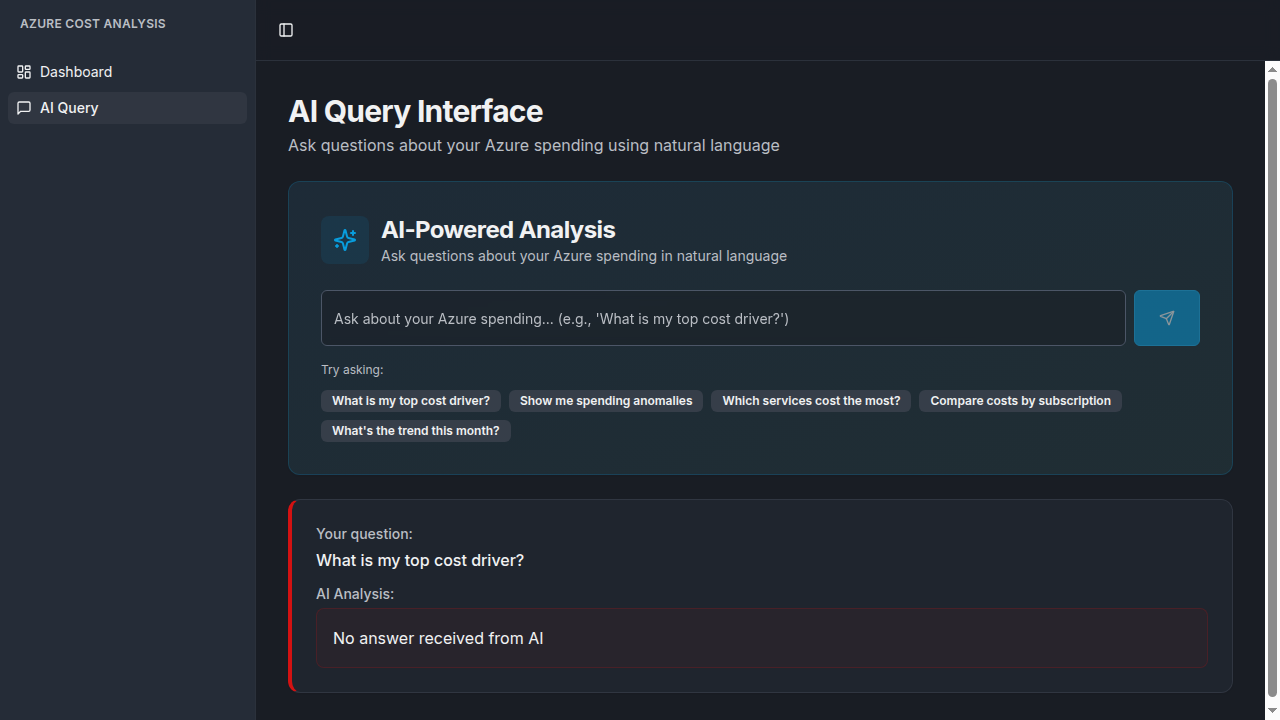
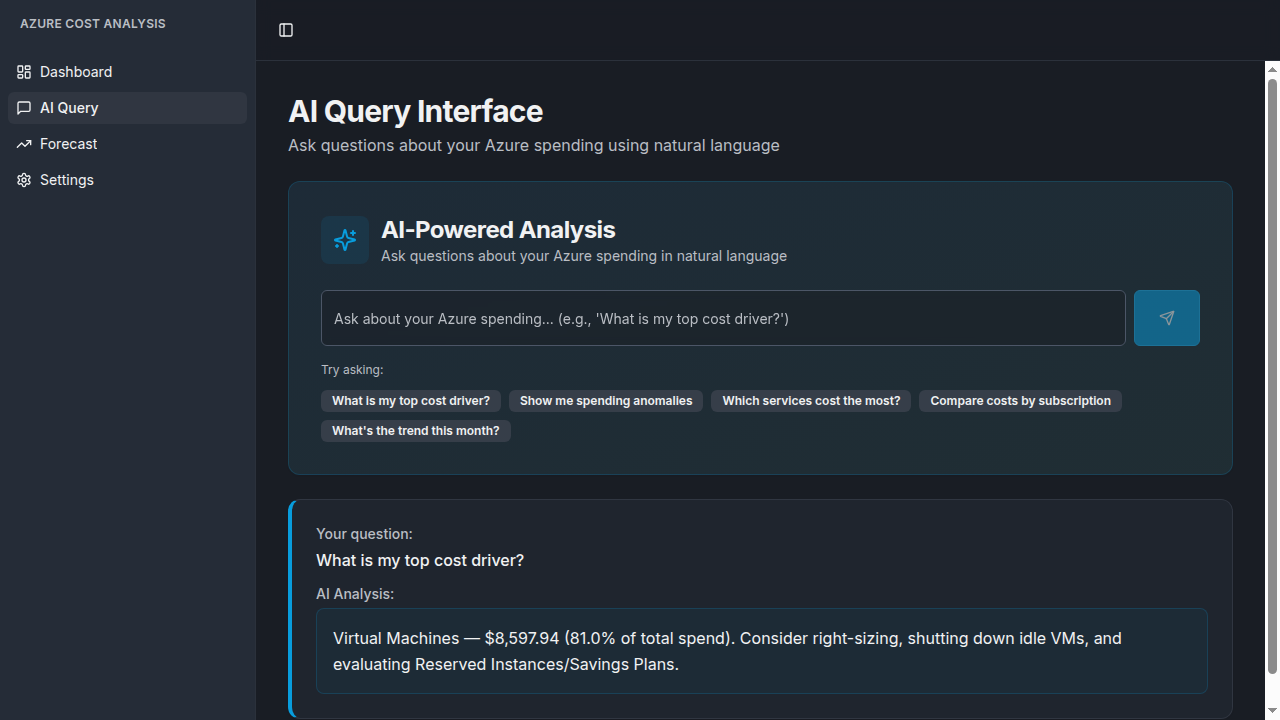
Enhance AI query system with anomaly detection and detailed cost insights
Integrate anomaly detection script and enrich AI query context with cost summaries, daily trends, detected anomalies, and subscription information to provide more comprehensive and actionable responses.

Replit-Commit-Author: Agent
Replit-Commit-Session-Id: b457d75e-b6bf-4f89-9699-de52474264a4
Replit-Commit-Checkpoint-Type: intermediate_checkpoint
Replit-Commit-Screenshot-Url: https://storage.googleapis.com/screenshot-production-us-central1/ba841c58-c035-4a96-8098-3566b8d7b107/b457d75e-b6bf-4f89-9699-de52474264a4/sQ5ZWsG

diff --git a/server/routes.ts b/server/routes.ts
@@ -127,24 +127,60 @@ export async function registerRoutes(app: Express): Promise<Server> {
       // Get cost data from server cache instead of trusting client payload
       const costData = cachedCostData || loadSampleData();
 
-      // Prepare context for AI
-      const context = `You are an AI assistant analyzing Azure cloud spending data. 
-      
-Here is the cost data summary:
+      // Get anomaly data for comprehensive analysis
+      let anomalyData: any = null;
+      try {
+        anomalyData = await runPythonScript("anomaly_detection.py", costData);
+      } catch {
+        // Continue without anomaly data if detection fails
+      }
+
+      // Prepare comprehensive context for AI
+      const context = `You are an AI assistant analyzing Azure cloud spending data. Answer questions clearly and concisely based on the data provided.
+
+COST SUMMARY:
 - Total Cost: $${costData.totalCost.toFixed(2)}
 - Average Daily Cost: $${costData.avgDailyCost.toFixed(2)}
 - Top Service: ${costData.topService.name} ($${costData.topService.cost.toFixed(2)})
 - Number of Services: ${costData.serviceCount}
 - Peak Day: ${costData.peakDay.date} ($${costData.peakDay.cost.toFixed(2)})
 
-Top 10 Services by Cost:
+TOP 10 SERVICES BY COST:
 ${costData.serviceBreakdown.slice(0, 10).map((s: any, i: number) => 
   `${i + 1}. ${s.name}: $${s.cost.toFixed(2)} (${s.percentage.toFixed(1)}%)`
 ).join('\n')}
 
-Subscriptions: ${costData.subscriptions.join(', ')}
+DAILY COST TRENDS (Last 30 days):
+${costData.dailyTrends.map((d: any) => 
+  `${d.date}: $${d.cost.toFixed(2)}`
+).join('\n')}
 
-Please answer the user's question clearly and concisely based on this data.`;
+${anomalyData?.anomalies?.length > 0 ? `DETECTED SPENDING ANOMALIES:
+${anomalyData.anomalies.map((a: any) => 
+  `- ${a.date}: $${a.cost.toFixed(2)} (${a.type}, ${a.severity} severity) - ${a.description}`
+).join('\n')}
+
+INSIGHTS:
+${anomalyData.insights.join('\n')}` : ''}
+
+SUBSCRIPTIONS: ${costData.subscriptions.join(', ')}
+
+When answering:
+- For "which services" questions: list the top services from the service breakdown
+- For "trend" questions: analyze the daily trends data
+- For "anomaly" or "unusual" questions: reference the detected anomalies
+- Provide specific numbers and percentages from the data
+- Be concise and actionable`;
+
+      // Log context length for debugging
+      console.log(`AI Query context length: ${context.length} characters`);
+      console.log(`User query: "${query}"`);
+      console.log(`Anomaly data available:`, anomalyData?.anomalies?.length || 0, 'anomalies');
+      
+      // Log first 500 chars of context for debugging
+      if (query.toLowerCase().includes('anomal')) {
+        console.log('Context preview for anomaly query:',context.substring(0, 500));
+      }
 
       // the newest OpenAI model is "gpt-5" which was released August 7, 2025. do not change this unless explicitly requested by the user
       const completion = await openai.chat.completions.create({
@@ -156,7 +192,59 @@ Please answer the user's question clearly and concisely based on this data.`;
         max_completion_tokens: 500,
       });
 
-      const answer = completion.choices[0]?.message?.content || "I couldn't generate an answer.";
+      console.log(`OpenAI completion choices:`, completion.choices?.length || 0);
+      console.log(`OpenAI response content:`, completion.choices[0]?.message?.content?.substring(0, 100) || "NONE");
+      
+      if (!completion.choices[0]?.message?.content) {
+        console.log('OpenAI response was empty - full completion:', JSON.stringify(completion, null, 2));
+      }
+
+      let answer = completion.choices[0]?.message?.content;
+      
+      // If OpenAI failed to generate an answer, provide data-driven fallback
+      if (!answer || answer.trim().length === 0) {
+        console.log('OpenAI returned empty response, using data-driven fallback');
+        console.log('Query lower:', query.toLowerCase());
+        
+        // Generate fallback answer based on query type
+        if (query.toLowerCase().includes('anomal')) {
+          console.log('Taking anomaly fallback branch');
+          if (anomalyData?.anomalies?.length > 0) {
+            answer = `I detected ${anomalyData.anomalies.length} spending anomalies:\n\n` +
+              anomalyData.anomalies.slice(0, 5).map((a: any) => 
+                `• ${a.date}: $${a.cost.toFixed(2)} - ${a.description} (${a.severity} severity)`
+              ).join('\n') +
+              (anomalyData.insights?.length > 0 ? `\n\nKey insights:\n${anomalyData.insights.slice(0, 3).map((i: any) => `• ${i}`).join('\n')}` : '');
+          } else {
+            answer = 'No significant spending anomalies were detected in your cost data.';
+          }
+        } else if (query.toLowerCase().includes('trend')) {
+          console.log('Taking trend fallback branch');
+          const recentTrends = costData.dailyTrends.slice(-7);
+          const avgRecent = recentTrends.reduce((sum: number, d: any) => sum + d.cost, 0) / recentTrends.length;
+          const earlierAvg = costData.dailyTrends.slice(0, 7).reduce((sum: number, d: any) => sum + d.cost, 0) / 7;
+          const change = ((avgRecent - earlierAvg) / earlierAvg) * 100;
+          answer = `Recent 7-day average: $${avgRecent.toFixed(2)}\n` +
+            `Compared to earlier period: ${change > 0 ? '+' : ''}${change.toFixed(1)}%\n` +
+            `Peak day this period: ${costData.peakDay.date} ($${costData.peakDay.cost.toFixed(2)})`;
+        } else if (query.toLowerCase().includes('service') || query.toLowerCase().includes('cost')) {
+          console.log('Taking service/cost fallback branch');
+          // Fallback for service/cost queries
+          answer = `Top services by cost:\n` +
+            costData.serviceBreakdown.slice(0, 8).map((s: any) => 
+              `- ${s.name}: $${s.cost.toFixed(2)} (${s.percentage.toFixed(1)}%)`
+            ).join('\n') +
+            `\n\nNote: ${costData.topService.name} accounts for ${costData.topService.percentage?.toFixed(1)}% of your total spending.`;
+        } else if (query.toLowerCase().includes('top') || query.toLowerCase().includes('driver')) {
+          console.log('Taking top driver fallback branch');
+          // Fallback for top cost driver queries
+          answer = `Your top cost driver is ${costData.topService.name} at $${costData.topService.cost.toFixed(2)}, ` +
+            `which represents ${costData.topService.percentage?.toFixed(1)}% of your total Azure spending.`;
+        } else {
+          console.log('No matching fallback branch - using generic message');
+          answer = "I couldn't generate an answer.";
+        }
+      }
 
       res.json({
         answer,
